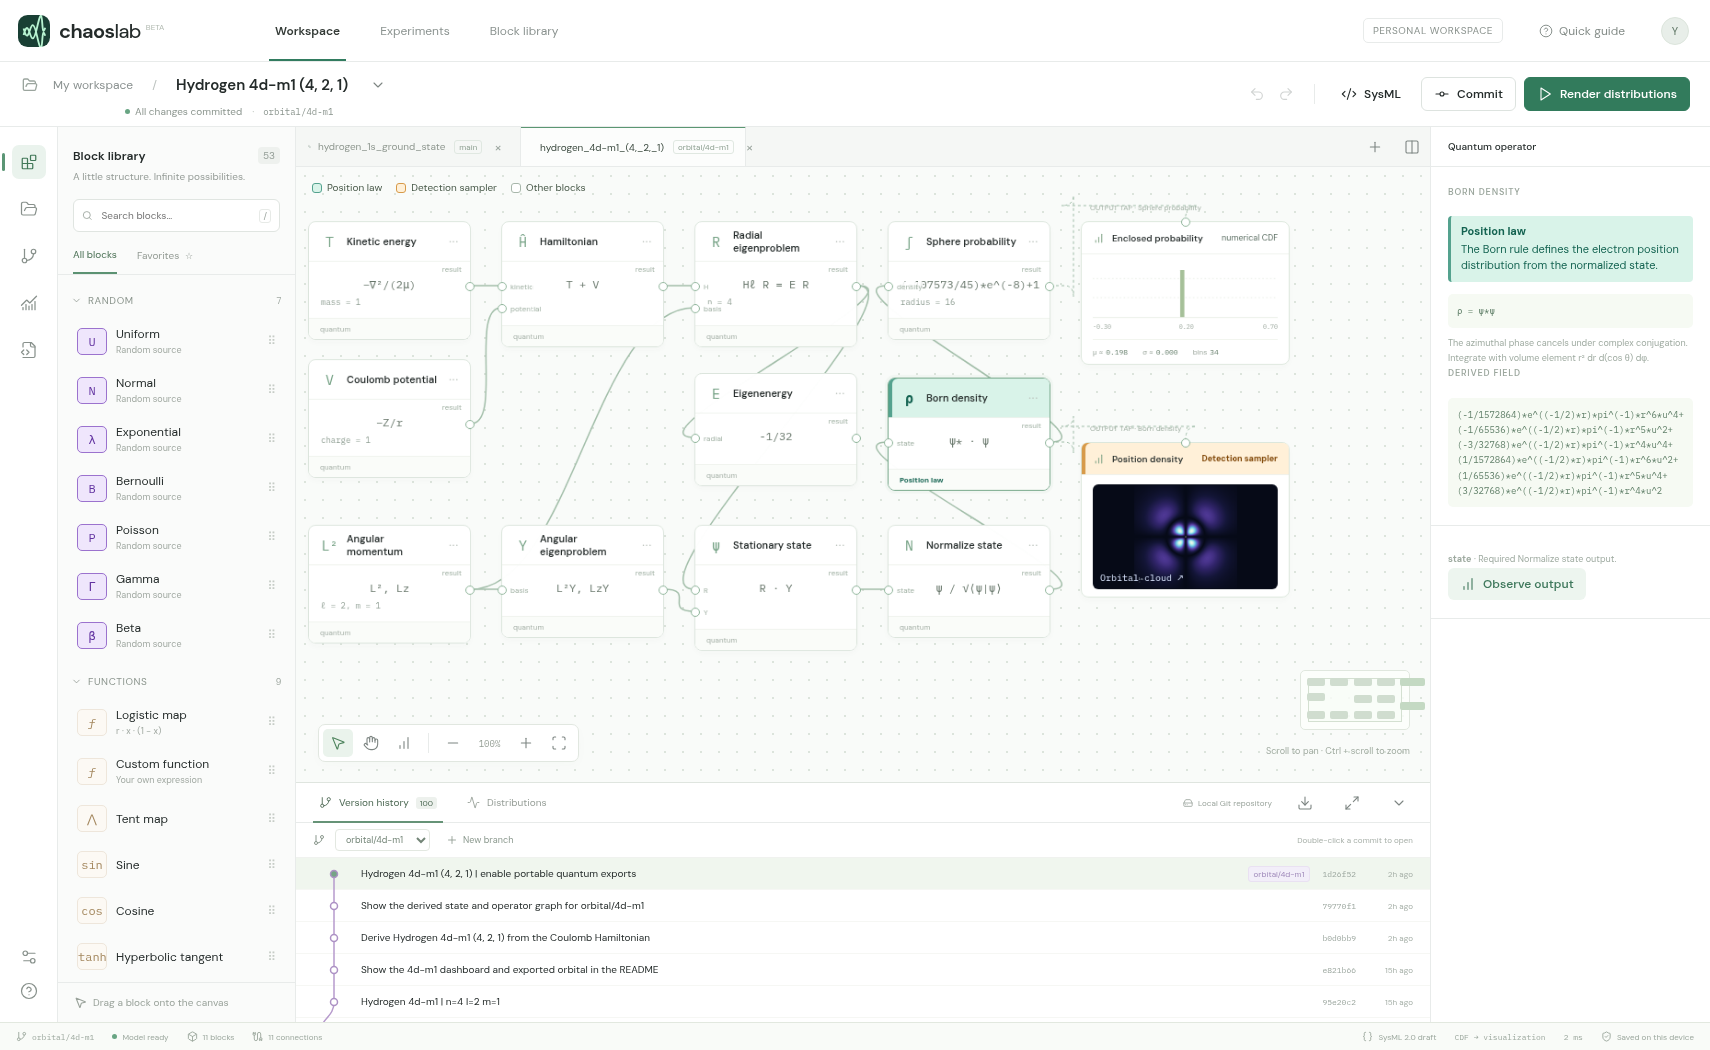
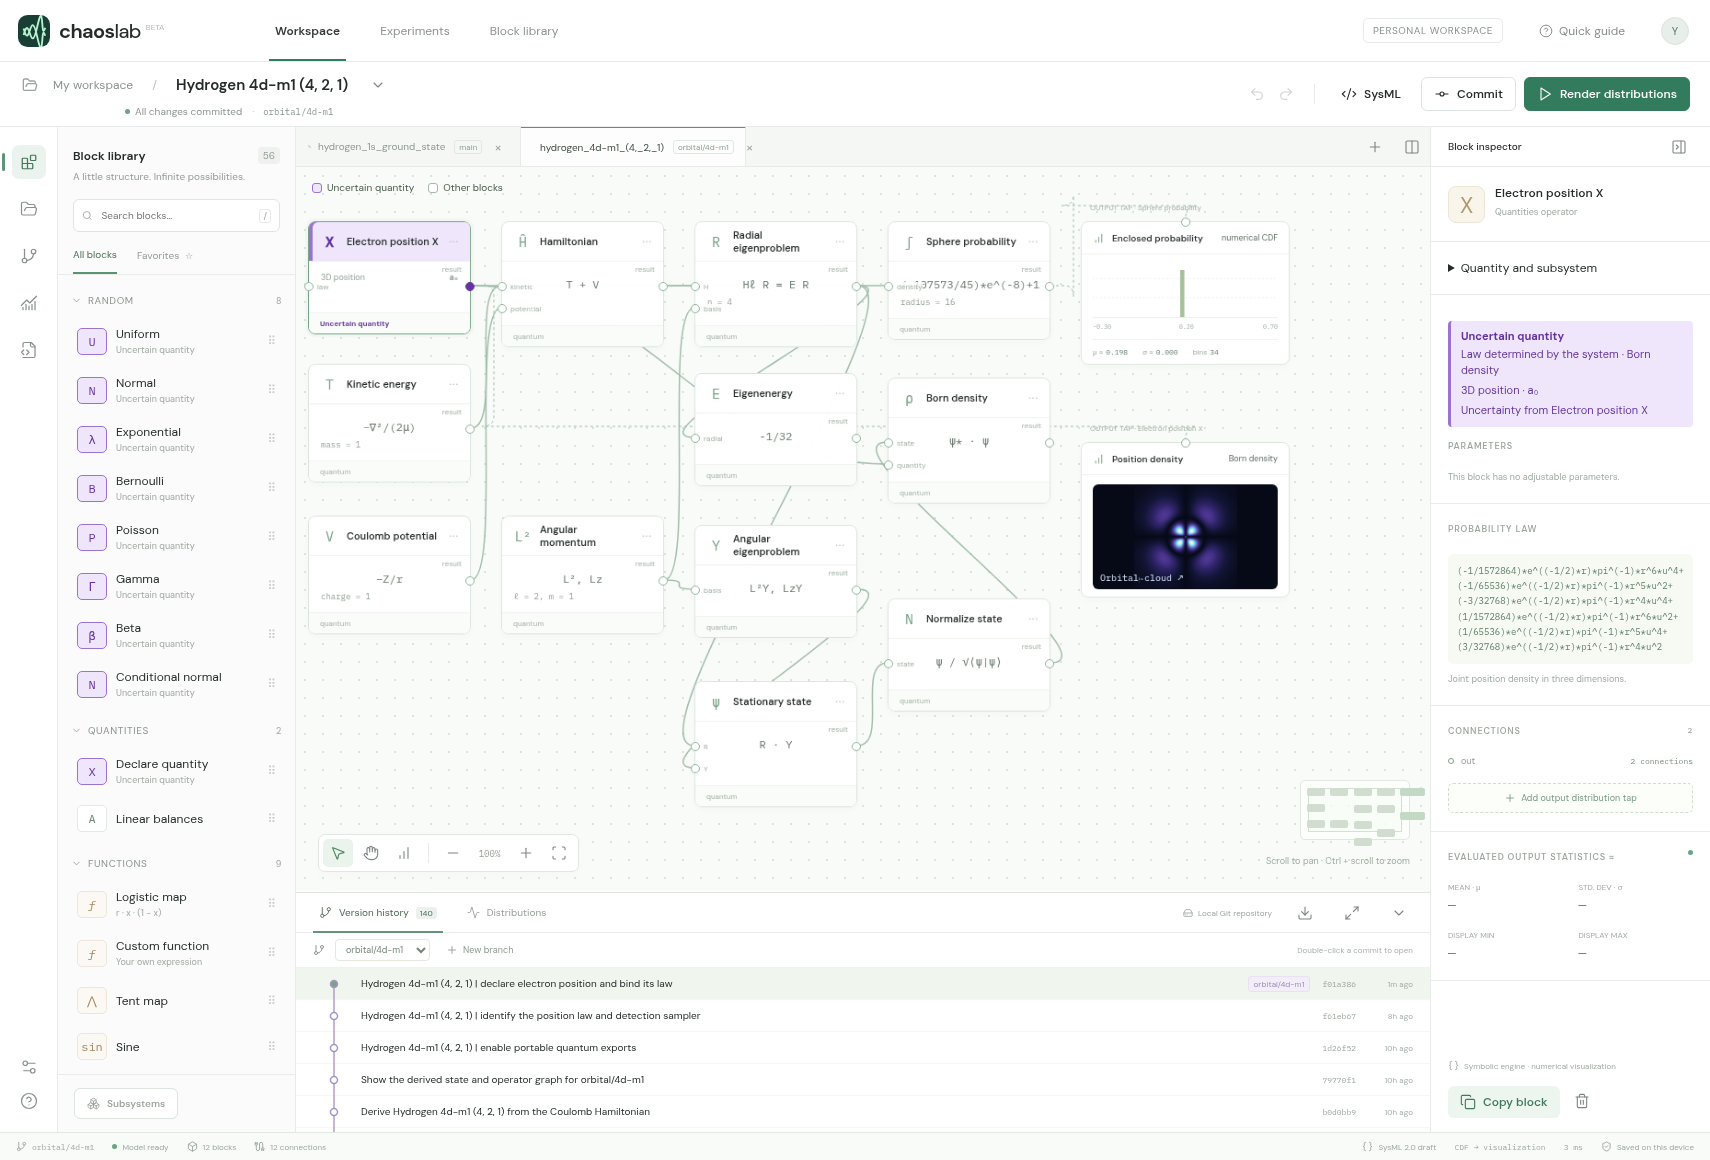
Show the position declaration and its law provider for orbital/4d-m1

diff --git a/studio.py b/studio.py
@@ -10,7 +10,7 @@ import tempfile
 import webbrowser
 
 ROOT = Path(__file__).resolve().parent
-STUDIO_REV = "5cbb600c6ee5baa24d159ddc6c974d68eb68f653"
+STUDIO_REV = "515ba96842af71b90f41019a508548a96e802665"
 STUDIO_REPO = "https://github.com/wa200508/chaos_lab.git"
 
 

diff --git a/README.md b/README.md
@@ -6,7 +6,7 @@ Open **Version history** in Chaos Lab to explore the 20 hydrogen designs in this
 
 The connected Hamiltonian and eigenstate solvers give $E=-1/32$ Hartree for this state.
 
-The purple **Electron position X** block declares the three-dimensional quantity in Bohr radii. Open its inspector to see **Born density** as its law provider. The sphere measurement and spatial tap both observe X. Projected detections draw from the final law; the central slice evaluates the density directly.
+The purple **Electron position X** block declares the three-dimensional quantity in Bohr radii. Open its inspector to see **Born density** as its law provider. The sphere measurement and spatial tap both observe X. Projected detections draw from the final law. The central slice evaluates the density directly.
 
 ![Chaos Lab dashboard with the 4d model, m = 1, open in version history](dashboard.png)
 
